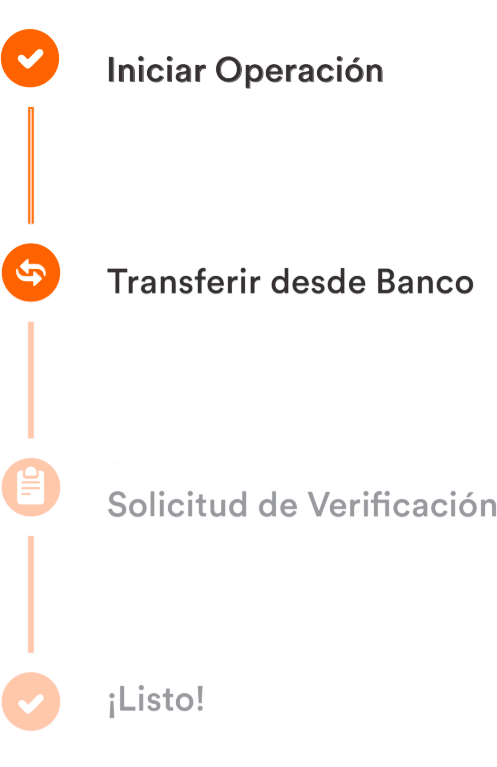
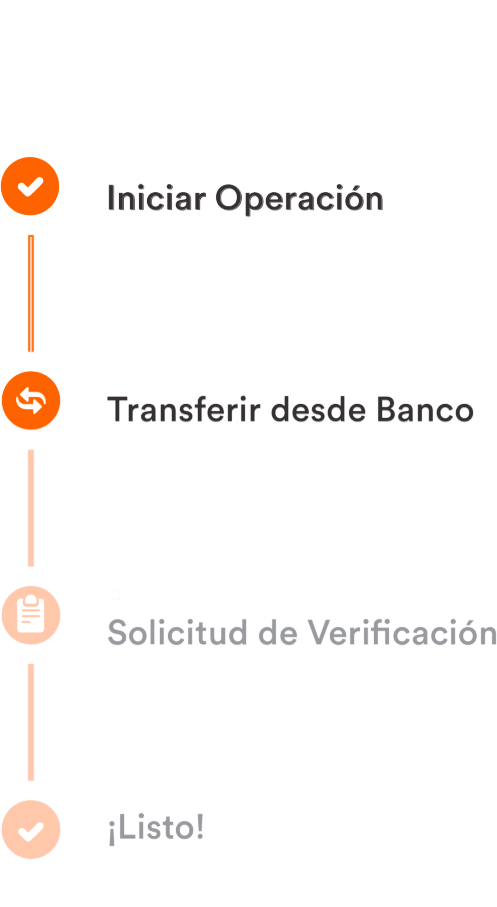
operaciones pasos listo por staff

diff --git a/investrialperufrontend/src/app/operacion/operacion.page.html b/investrialperufrontend/src/app/operacion/operacion.page.html
@@ -20,7 +20,7 @@
     <br />
     <ion-grid>
       <ion-row>
-        <ion-col size-xs="0" size-sm="5" size-md="5" size-lg="3" size-xl="4">
+        <ion-col size-xs="0" size-sm="5" size-md="5" size-lg="5.5" size-xl="5.5">
           <img src="assets/investrealperurecursos/images/pasos1.png">
         </ion-col>
 
@@ -33,16 +33,16 @@
         </div>
 
 
-        <ion-col size-xs="0" size-sm="1" size-md="2" size-lg="3" size-xl="4">
+        <ion-col size-xs="0" size-sm="1" size-md="2" size-lg="0.2" size-xl="0.5">
           &nbsp;&nbsp;
         </ion-col>
 
-        <ion-col size-xs="12" size-sm="6" size-md="5" size-lg="6" size-xl="4">
+        <ion-col size-xs="12" size-sm="6" size-md="5" size-lg="5.5" size-xl="5.5">
           <!-- de la seccion de la siguiente linea para bajo vienen los condicionales si quiere vender o comprar dolares -->
           <section *ngIf="quierecomprardolares">
 
             <ion-card  style="padding: 22px !important; border-radius: 11px !important">
-              <ion-fab-button (click)="cambiarmododeoperacion()" color="secondary"
+              <ion-fab-button size="small" (click)="cambiarmododeoperacion()" color="secondary"
                 style="z-index: 1; position: absolute; right: 15%; top: 48%">
                 <ion-icon style="
                            color: var(--ion-color-primary);
@@ -134,7 +134,7 @@
           <section *ngIf="!quierecomprardolares">
 
             <ion-card style="padding: 22px !important; border-radius: 11px !important">
-              <ion-fab-button (click)="cambiarmododeoperacion()" color="primary"
+              <ion-fab-button size="small" (click)="cambiarmododeoperacion()" color="primary"
                 style="z-index: 1; position: absolute; right: 15%; top: 48%">
                 <ion-icon style="
                            color: var(--ion-color-secondary);
@@ -238,7 +238,7 @@
 
     <ion-grid>
       <ion-row>
-        <ion-col size-xs="0" size-sm="5.4" size-md="5.9" size-lg="3" size-xl="4">
+        <ion-col size-xs="0" size-sm="5.4" size-md="3.8" size-lg="3" size-xl="5">
           <img src="assets/investrealperurecursos/images/pasos2.png">
         </ion-col>
 
@@ -251,11 +251,11 @@
         </div>
 
 
-        <ion-col size-xs="0" size-sm="0.2" size-md="0.2" size-lg="2" size-xl="3">
+        <ion-col size-xs="0" size-sm="0.2" size-md="0.1" size-lg="2" size-xl="1">
           &nbsp;&nbsp;
         </ion-col>
 
-        <ion-col size-xs="12" size-sm="6.4" size-md="6.9" size-lg="7" size-xl="5">
+        <ion-col size-xs="12" size-sm="6.2" size-md="7" size-lg="7" size-xl="6">
           <!-- de la seccion de la siguiente linea para bajo vienen los condicionales si quiere vender o comprar dolares -->
 
 
@@ -567,15 +567,11 @@
             <section *ngIf="!agrego_algo">
               <ion-button *ngIf="data_de_deposito&&banco_que_envia" (click)="step3()" color="primary" expand="full"
                 style="color: #fff">
-                <p style="color: #fff">
                   Continuar
-                </p>
               </ion-button>
               <ion-button *ngIf="!data_de_deposito||!banco_que_envia" (click)="abrirmodalerrorpaso2()" color="primary"
                 expand="full">
-                <p style="color: #fff">
                   Continuar
-                </p>
               </ion-button>
             </section>
             <section *ngIf="agrego_algo">
@@ -620,6 +616,29 @@
     </ion-grid>
   </section>
   <section *ngIf="this.step=='3'">
+
+
+    <ion-grid>
+      <ion-row>
+        <ion-col size-xs="0" size-sm="4" size-md="3.8" size-lg="3" size-xl="5">
+          <img src="assets/investrealperurecursos/images/pasos3.png">
+        </ion-col>
+
+        <div class="ion-hide-sm-up">
+        <ion-col size-xs="12" >
+          <img src="assets/investrealperurecursos/images/pasoscelular3.png">  
+          
+
+          </ion-col>
+        </div>
+
+
+        <ion-col size-xs="0" size-sm="0" size-md="0.1" size-lg="1" size-xl="1">
+          &nbsp;&nbsp;
+        </ion-col>
+
+        <ion-col size-xs="12" size-sm="7" size-md="7" size-lg="7" size-xl="6">
+
 
     <ion-grid>
       <ion-row style="padding-bottom: 0px !important; padding-top: 0px !important">
@@ -746,8 +765,35 @@
         </ion-col>
       </ion-row>
     </ion-grid>
+        </ion-col>
+    </ion-row>
+    </ion-grid>
   </section>
   <section *ngIf="this.step=='4'">
+
+
+    <ion-grid>
+      <ion-row>
+        <ion-col size-xs="0" size-sm="5" size-md="5" size-lg="5.5" size-xl="4.6">
+          <img src="assets/investrealperurecursos/images/pasos4.png">
+        </ion-col>
+
+        <div class="ion-hide-sm-up">
+        <ion-col size-xs="12" class="hide-sm hide-md hide-lg hide-xl">
+          <img src="assets/investrealperurecursos/images/pasoscelular4.png">  
+          
+
+          </ion-col>
+        </div>
+
+
+        <ion-col size-xs="0" size-sm="1" size-md="2" size-lg="0.2" size-xl="0.1">
+          &nbsp;&nbsp;
+        </ion-col>
+
+        <ion-col size-xs="12" size-sm="6" size-md="5" size-lg="5.5" size-xl="7">
+
+
     <ion-grid>
       <ion-row class="ion-align-items-center ion-justify-content-center"
         style="padding-bottom: 0px !important; padding-top: 0px !important">
@@ -773,6 +819,9 @@
           </ion-card>
         </ion-col>
       </ion-row>
+    </ion-grid>
+    </ion-col>
+    </ion-row>
     </ion-grid>
   </section>
   <!-- termina step 2 -->
